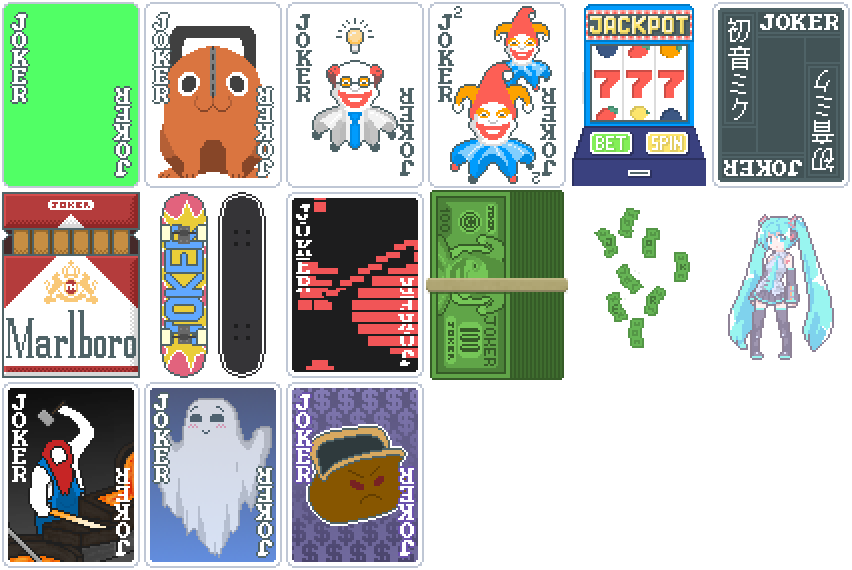
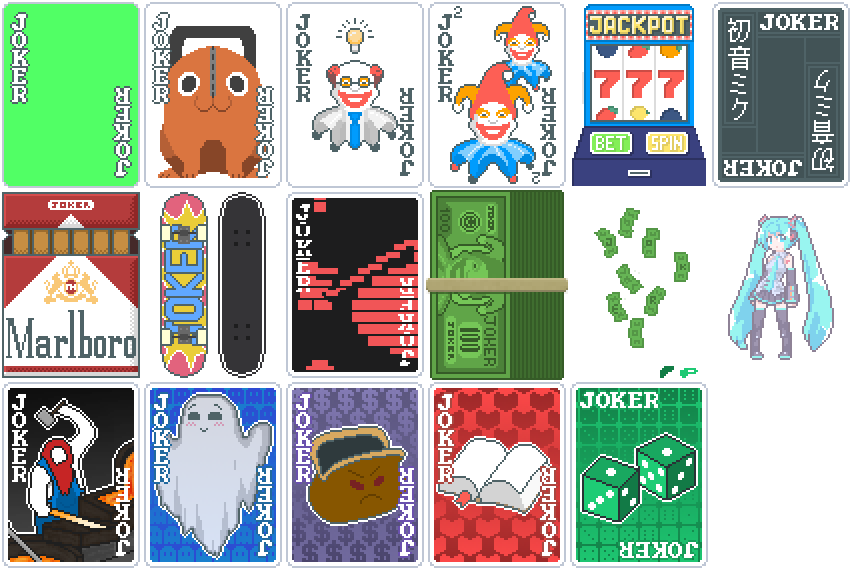
more fixes, more jokers

diff --git a/TODO.md b/TODO.md
@@ -82,10 +82,16 @@ uh
 
 # general jokers
 
+favourable odds
+chance for lucky
 
+Meteor
+dysy
+OP
+ — Today at 04:19
+Meteor (uncommon): X in 5 chance to upgrade level of played poker hand, X is the number of played stone card in that hand.
 
-Gameplay update 2025 joker - Makes all Ceres mod jokers twice as common
-
+Stone card works better for hand with lesser card, and this joker allows you to upgrade your hand a lot faster with stone card. 5 stone card will always upgrade highcard.
 
 all in, reduce hands to 1 get more money
 
@@ -97,9 +103,7 @@ Joker that turns all jacks into wild jacks
 
 marlboro golds, money for playing hand decrease 
 legendary gives hand and discard on use of either
-Gains x0.1 Mult for every unique Consumable used (not retroactive). collectors book
 1 in 2 chance to retrigger any card
-upgrade all hands by x levels for each boss blind defeated with this joker when sold
 
 roulette
 mult doubles chance to reset
